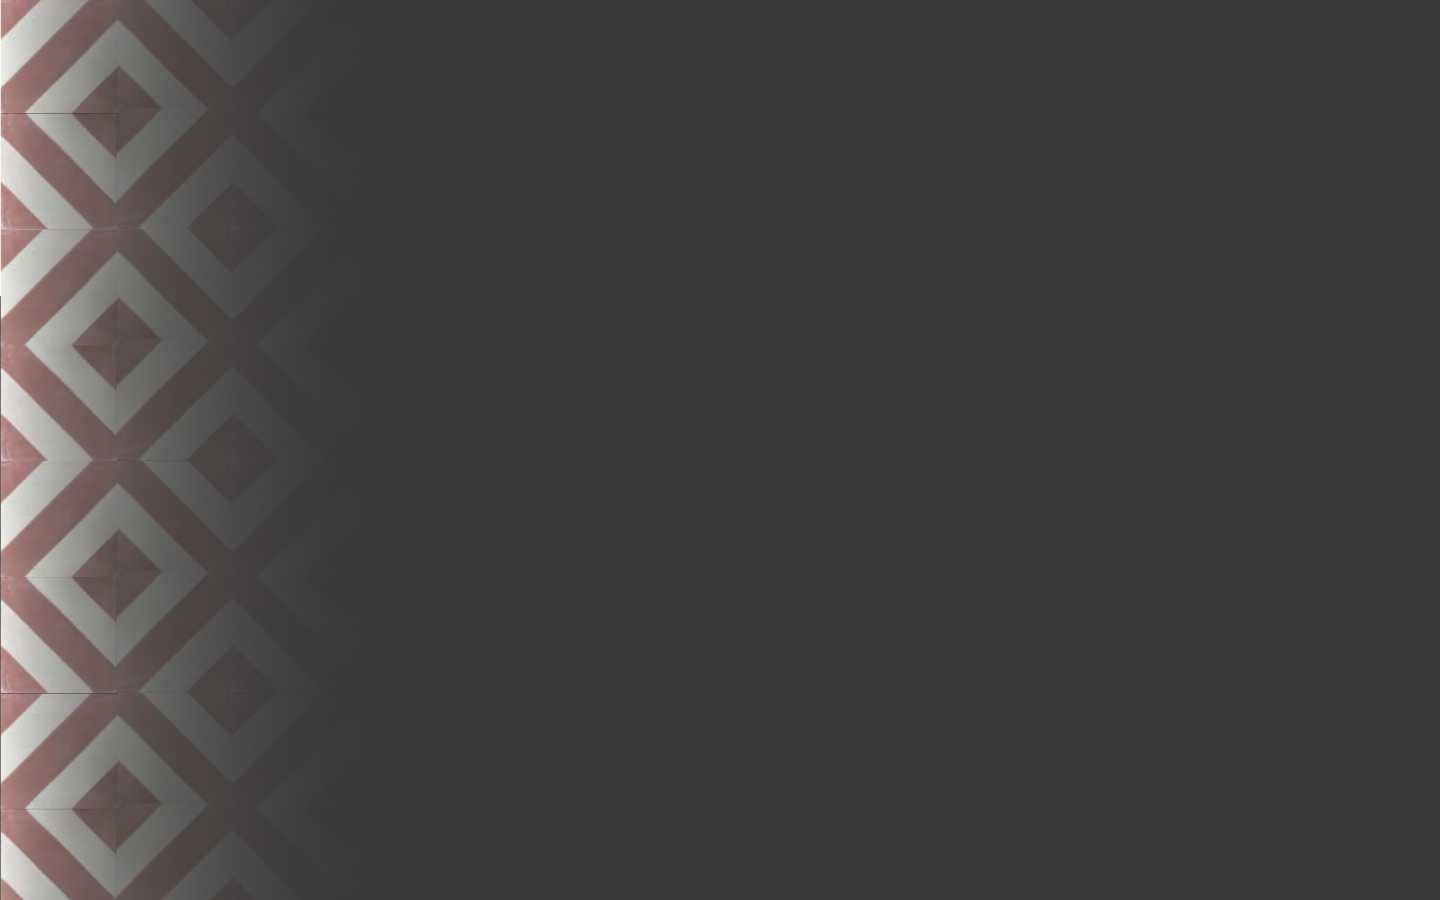
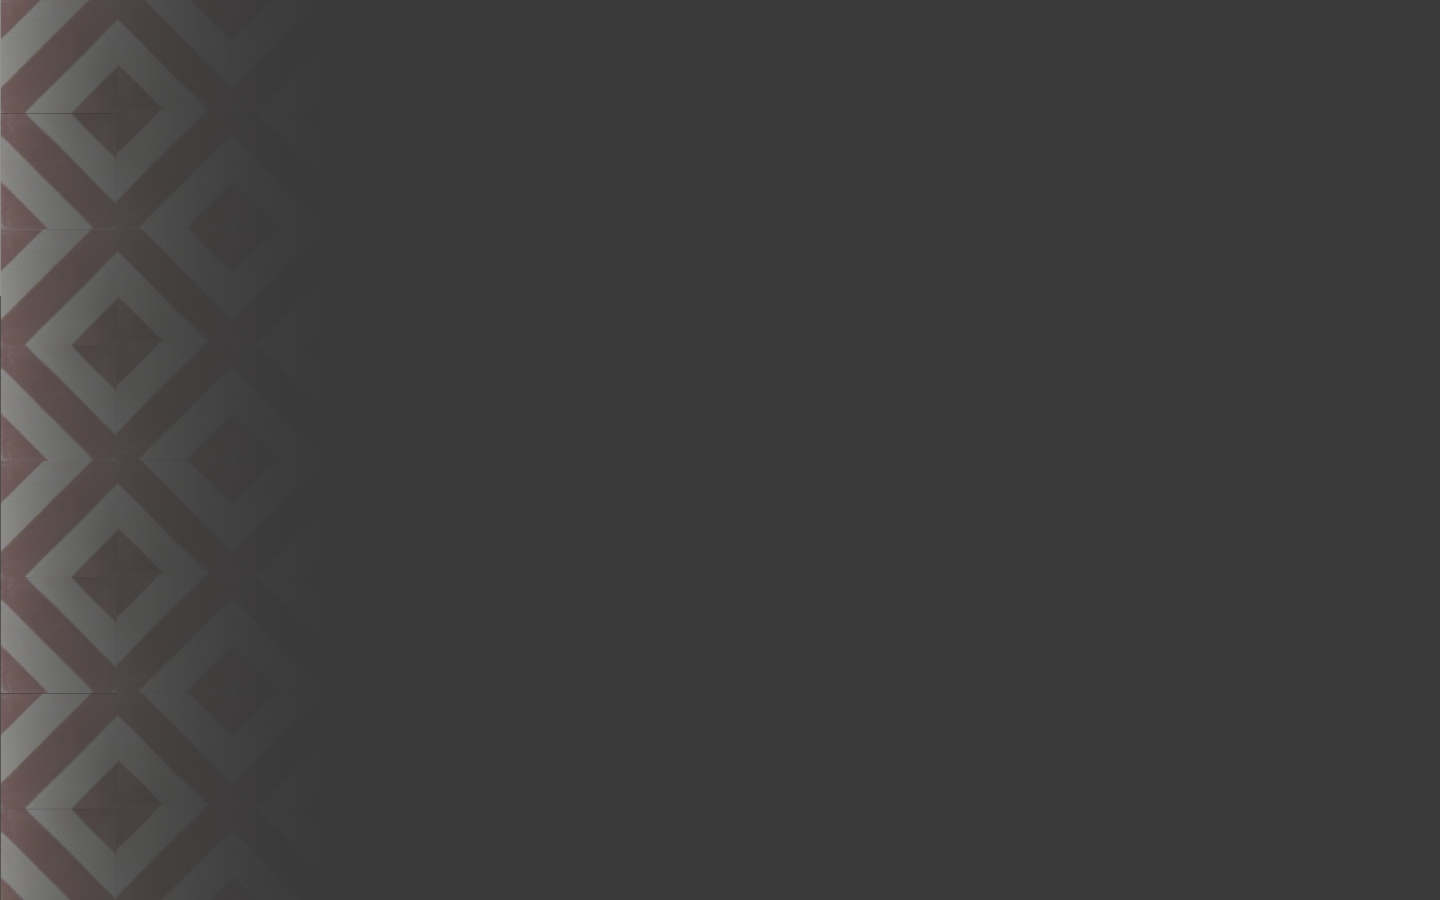
Test

Changed region(s): [[0.0, 0.0, 0.125, 1.0]]

diff --git a/index.html b/index.html
@@ -6,10 +6,17 @@
 -->
 <html>
 
+<!DOCTYPE html>
+<html lang="de">
+
 <head>
-	<title>Ethereal by HTML5 UP</title>
+	<title>Klopstock Café & Bar | Bestes Café in Zürich</title>
 	<meta charset="utf-8" />
 	<meta name="viewport" content="width=device-width, initial-scale=1, user-scalable=no" />
+	<meta name="description"
+		content="Genießen Sie eine Tasse Kaffee im Klopstock Café & Bar in Zürich. Wir bieten eine breite Palette an hausgemachten Speisen und erfrischenden Getränken." />
+	<meta name="keywords" content="Klopstock, Café, Bar, Zürich, Kaffee, Speisen, Getränke" />
+	<link rel="canonical" href="https://www.klopstock-cafe-bar.com/" />
 	<link rel="stylesheet" href="assets/css/main.css" />
 	<noscript>
 		<link rel="stylesheet" href="assets/css/noscript.css" />
@@ -17,6 +24,13 @@
 	<!-- FontAwesome CSS library -->
 	<link rel="stylesheet" href="https://cdnjs.cloudflare.com/ajax/libs/font-awesome/5.15.2/css/all.min.css">
 </head>
+
+<body>
+	<!-- Hier kommt der Inhalt Ihrer Webseite -->
+</body>
+
+</html>
+
 
 <body class="is-preload">
 
@@ -31,11 +45,9 @@
 				<div class="content color0 span-3-75">
 					<h1 class="major">Wir sind <br> <span class="auto-type highlighter"></span><br />
 					</h1>
-					<p>Entdecken Sie das Klopstock Restaurant, wo unsere talentierten Köche mit hochwertigen Zutaten und
-						einer kreativen Note
-						exquisite Gerichte zubereiten. Besuchen Sie uns und lassen Sie sich von unserem einzigartigen
-						Ambiente und
-						unserer Gastfreundschaft verwöhnen.</p>
+					<p>Willkommen im Klopstock, dem neuen Café und Bar auf dem alten Werkhof in Zürich! Wir sind stolz darauf, Ihnen eine
+					einzigartige gastronomische Erfahrung bieten zu können, die von unseren leidenschaftlichen Besitzern Martina und Fabio
+					mit viel Liebe und Sorgfalt kreiert wurde..</p>
 					<ul class="actions">
 						<li><a href="#first" class="button primary color1 circle icon solid fa-angle-right">Karte</a>
 						</li>
@@ -57,7 +69,7 @@
 
 			<!-- Panel (Spotlight) -->
 			<section class="panel spotlight medium right" id="about">
-				<div class="content span-7">
+				<div class="content span-7 media-full-screen">
 					<h2 class="major">Einzigartiges Ambiente</h2>
 					<p>Perfekt für jeden Anlass
 						Ob Sie eine romantische Nacht zu zweit oder eine Feier mit Freunden und Familie planen, das
@@ -74,7 +86,7 @@
 			</section>
 
 			<!-- Panel -->
-			<section class="panel color1" id="essen">
+			<!-- <section class="panel color1" id="essen">
 				<div class="intro joined">
 					<h2 class="major">Essen</h2>
 					<p>Sed vel nibh libero. Mauris et lorem pharetra massa lorem turpis congue pulvinar. Vivamus sed
@@ -91,12 +103,12 @@
 						<li><span class="icon solid fa-code"><span class="label">Nullam</span></span></li>
 					</ul>
 				</div>
-			</section>
+			</section> -->
 
 			<!-- Panel (Spotlight) -->
-			<section class="panel spotlight large left">
+			<!-- <section class="panel spotlight large left">
 				<div class="content span-5">
-					<h2 class="major">Magna amet tempus</h2>
+					<h2 class="major">Getränke</h2>
 					<p>Mauris a cursus velit. Nunc lacinia sollicitudin egestas bibendum, magna dui bibendum ex,
 						sagittis commodo enim risus sed magna nulla. Vestibulum ut consequat velit. Curabitur vitae
 						libero lorem. Quisque iaculis porttitor blandit. Nullam quis sagittis maximus. Sed vel nibh
@@ -105,51 +117,51 @@
 				<div class="image filtered tinted" data-position="top right">
 					<img src="images/pic03.jpg" alt="" />
 				</div>
-			</section>
+				
+			</section> -->
 
-			<!-- Panel -->
+			<!-- Panel Gallery-->
 			<section class="panel">
-				<div class="intro color2">
-					<h2 class="major">Elit integer</h2>
-					<p>Sed vel nibh libero. Mauris et lorem pharetra massa lorem turpis congue pulvinar. Vivamus sed
-						feugiat finibus. Duis amet bibendum amet sed. Duis mauris ex, dapibus sed ligula tempus volutpat
-						magna etiam.</p>
+				<div class="intro color3">
+					<h2 class="major">Gallery</h2>
+					<p>Wir glauben daran, dass ein Bild mehr als tausend Worte sagt, deshalb haben wir uns bemüht, Ihnen hier einen Einblick in
+					unser Café und Bar zu geben. Wir hoffen, dass Sie genauso begeistert von unserem Angebot sind wie wir und freuen uns
+					darauf, Sie bald bei uns begrüßen zu dürfen!</p>
 				</div>
 				<div class="gallery">
 					<div class="group span-3">
-						<a href="images/gallery/fulls/01.jpg" class="image filtered span-3" data-position="bottom"><img
-								src="images/gallery/thumbs/01.jpg" alt="" /></a>
-						<a href="images/gallery/fulls/02.jpg" class="image filtered span-1-5"
-							data-position="center"><img src="images/gallery/thumbs/02.jpg" alt="" /></a>
-						<a href="images/gallery/fulls/03.jpg" class="image filtered span-1-5"
-							data-position="bottom"><img src="images/gallery/thumbs/03.jpg" alt="" /></a>
+						<a href="images/gallery/interior/interior_01.jpeg" class="image filtered span-3" data-position="bottom"><img
+								src="images/gallery/interior/interior_01.jpeg" alt="" /></a>
+						<a href="images/gallery/interior/interior_02.jpeg" class="image filtered span-1-5"
+							data-position="center"><img src="images/gallery/interior/interior_02.jpeg" alt="" /></a>
+						<a href="images/gallery/interior/interior_03.jpeg" class="image filtered span-1-5"
+							data-position="bottom"><img src="images/gallery/interior/interior_03.jpeg" alt="" /></a>
 					</div>
-					<a href="images/gallery/fulls/04.jpg" class="image filtered span-2-5" data-position="top"><img
-							src="images/gallery/thumbs/04.jpg" alt="" /></a>
+					<a href="images/gallery/interior/interior_04.jpeg" class="image filtered span-2-5" data-position="top"><img
+							src="images/gallery/interior/interior_04.jpeg" alt="" /></a>
 					<div class="group span-4-5">
-						<a href="images/gallery/fulls/05.jpg" class="image filtered span-3" data-position="top"><img
-								src="images/gallery/thumbs/05.jpg" alt="" /></a>
-						<a href="images/gallery/fulls/06.jpg" class="image filtered span-1-5"
-							data-position="center"><img src="images/gallery/thumbs/06.jpg" alt="" /></a>
-						<a href="images/gallery/fulls/07.jpg" class="image filtered span-1-5"
-							data-position="bottom"><img src="images/gallery/thumbs/07.jpg" alt="" /></a>
-						<a href="images/gallery/fulls/08.jpg" class="image filtered span-3" data-position="top"><img
-								src="images/gallery/thumbs/08.jpg" alt="" /></a>
+						<a href="images/gallery/interior/interior_05.jpeg" class="image filtered span-3" data-position="top"><img
+								src="images/gallery/interior/interior_05.jpeg" alt="" /></a>
+						<a href="images/gallery/interior/interior_06.jpeg" class="image filtered span-1-5"
+							data-position="center"><img src="images/gallery/interior/interior_06.jpeg" alt="" /></a>
+						<a href="images/gallery/interior/interior_07.jpeg" class="image filtered span-1-5"
+							data-position="bottom"><img src="images/gallery/interior/interior_07.jpeg" alt="" /></a>
+						<a href="images/gallery/interior/interior_08.jpeg" class="image filtered span-3" data-position="top"><img
+								src="images/gallery/interior/interior_08.jpeg" alt="" /></a>
 					</div>
-					<a href="images/gallery/fulls/09.jpg" class="image filtered span-2-5" data-position="right"><img
-							src="images/gallery/thumbs/09.jpg" alt="" /></a>
+					<a href="images/gallery/interior/interior_08.jpeg" class="image filtered span-2-5" data-position="right"><img
+							src="images/gallery/interior/interior_08.jpeg" alt="" /></a>
 				</div>
 			</section>
 
-			<!-- Panel -->
+			<!--Panel Contact-->
 			<section class="panel color4-alt">
 				<div class="intro color4">
-					<h2 class="major">Contact</h2>
-					<p>Sed vel nibh libero. Mauris et lorem pharetra massa lorem turpis congue pulvinar. Vivamus sed
-						feugiat finibus. Duis amet bibendum amet sed. Duis mauris ex, dapibus sed ligula tempus volutpat
-						magna etiam.</p>
+					<h2 class="major">Kontakt</h2>
+					<p>Vielen Dank für Ihr Interesse! Bitte nutzen Sie unser Kontaktformular, um uns zu kontaktieren. Wir werden Ihre Anfrage
+					schnellstmöglich bearbeiten. Vielen Dank!</p>
 				</div>
-				<div class="inner columns divided">
+				<div class="inner columns divided color4">
 					<div class="span-3-25">
 						<form method="post" action="#">
 							<div class="fields">
@@ -173,18 +185,17 @@
 					</div>
 					<div class="span-1-5">
 						<ul class="contact-icons color1">
-							<li class="icon brands fa-twitter"><a href="#">@untitled-tld</a></li>
-							<li class="icon brands fa-facebook-f"><a href="#">facebook.com/untitled</a></li>
-							<li class="icon brands fa-snapchat-ghost"><a href="#">@untitled-tld</a></li>
-							<li class="icon brands fa-instagram"><a href="#">@untitled-tld</a></li>
-							<li class="icon brands fa-medium-m"><a href="#">medium.com/untitled</a></li>
+							<li class="icon brands fa-facebook-f"><a href="#">Follow us</a></li>
+							<li class="icon brands fa-instagram"><a href="#">Follow us</a></li>
+							<li class="icon brands fa-google"><a href="#">Maps</a></li>
+					
 						</ul>
 					</div>
 				</div>
 			</section>
 
-			<!-- Panel -->
-			<section class="panel color2-alt">
+			<!-- Panel Elements-->
+			<!-- <section class="panel color2-alt">
 				<div class="intro color2">
 					<h2 class="major">Elements</h2>
 					<p>Sed vel nibh libero. Mauris et lorem pharetra massa lorem turpis congue pulvinar. Vivamus sed
@@ -462,7 +473,7 @@ print 'It took ' + i + ' iterations to sort the deck.';</code></pre>
 						</form>
 					</div>
 				</div>
-			</section>
+			</section> -->
 
 			<!-- Copyright -->
 			<div class="copyright">&copy; Untitled. Design: <a href="https://html5up.net">HTML5 UP</a>.</div>

diff --git a/assets/css/main.css b/assets/css/main.css
@@ -358,6 +358,9 @@ input, select, textarea {
 			background-color: rgba(255, 255, 255, 0.25);
 		}
 
+
+
+
 	h1 {
 		font-size: 3rem;
 		line-height: 1.2;
@@ -2214,13 +2217,13 @@ input, select, textarea {
 			.panel > *.color3 {
 				background-image: url("../../images/overlay.png"), linear-gradient(45deg, rgba(114, 97, 147, 0.25) 25%, rgba(227, 123, 124, 0.25) 50%, rgba(255, 228, 180, 0.25));
 				background-size: 128px 128px, auto;
-				background-color: #ffe4b4;
+				background-color: #393939;
 			}
 
 			.panel > *.color4 {
-				background-image: url("../../images/overlay.png"), linear-gradient(45deg, rgba(114, 97, 147, 0.25) 25%, rgba(227, 123, 124, 0.25) 50%, rgba(255, 228, 180, 0.25));
-				background-size: 128px 128px, auto;
-				background-color: #353865;
+					background-image: url("../../images/overlay.png"), linear-gradient(90deg, rgba(57, 57, 57, 0.25) 25%, rgba(57, 57, 57, 0.25) 50%, rgba(191, 100, 91, 0.25));
+					background-size: 128px 128px, auto;
+					background-color: #393939;
 			}
 
 			.panel > *.color1-alt {
@@ -2242,9 +2245,9 @@ input, select, textarea {
 			}
 
 			.panel > *.color4-alt {
-				background-image: url("../../images/overlay.png"), linear-gradient(45deg, rgba(114, 97, 147, 0.175) 25%, rgba(227, 123, 124, 0.175) 50%, rgba(255, 228, 180, 0.175));
-				background-size: 128px 128px, auto;
-				background-color: #323459;
+					background-image: url("../../images/overlay.png"), linear-gradient(90deg, rgba(57, 57, 57, 0.25) 25%, rgba(57, 57, 57, 0.25) 50%, rgba(191, 100, 91, 0.25));
+					background-size: 128px 128px, auto;
+					background-color: #e37b7c;
 			}
 
 		.panel > .intro {
@@ -3477,6 +3480,9 @@ input, select, textarea {
 			background-image: linear-gradient(0deg, rgba(0, 0, 0, 0.25) 70%, rgba(0, 0, 0, 0.175)) !important;
 			min-height: 25rem;
 		}
+				.media-full-screen {
+					height: 100vh;
+				}
 
 	}
 
@@ -3485,6 +3491,11 @@ input, select, textarea {
 		.panel.spotlight .content {
 			min-height: 30rem;
 		}
+
+		.media-full-screen {
+			height: 100vh;
+		}
+
 
 	}
 

diff --git a/assets/sass/libs/_vars.scss b/assets/sass/libs/_vars.scss
@@ -44,6 +44,6 @@
 		border-bg-alt:					rgba(255,255,255,0.125),
 		accent1:						#726193,
 		accent2:						#e37b7c,
-		accent3:						#ffe4b4,
+		accent3:						#ff09ea,
 		accent4:						#353865
 	);
